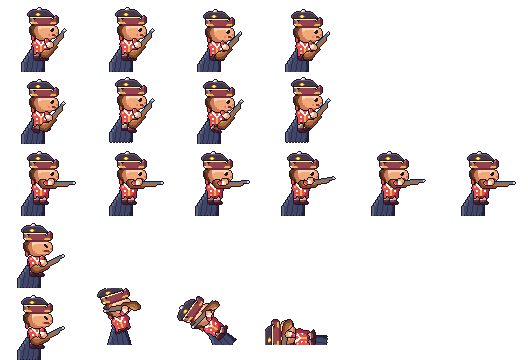
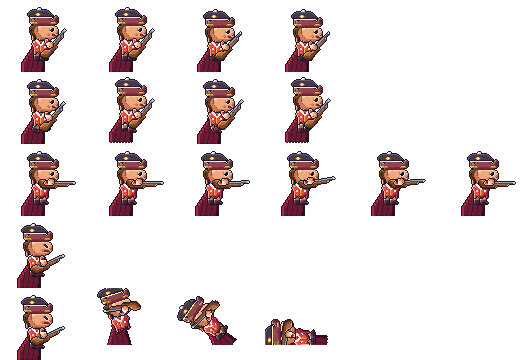
Opaque boss telegraph and ward, re-detailed bosses, enemy-red Gunpowder cape
- Boss strike marker: dotted ring painted on the path with cracks that
  spread as it charges (was a translucent red box).
- Ward: one-pixel dome with a moving glint over the visible fortress front.
- Boss parts get a one-pixel re-detail pass after upscaling (rim light,
  shade, material seams) so they stop reading as a zoomed-in troop.
- Gunpowder boss cape recoloured from navy to enemy red.
- Bible D40.

Claude-Session: https://claude.ai/code/session_019bgXjgLKeDnHZqqyGSXWVb

diff --git a/src/view/battleView.ts b/src/view/battleView.ts
@@ -643,65 +643,78 @@ export class BattleView {
     d.strip(torch, Math.floor(this.t * this.app.assets.strip(torch).fps + side), flip ? x - tx : x + tx, y + ty, { flip });
   }
 
-  /** Red ground marker under a telegraphed boss strike, filling as it charges. */
+  /**
+   * Ground marker under a telegraphed boss strike: an opaque dotted ring painted on the path (the
+   * whole band inside it gets hit), with cracks that spread as the strike charges. No translucent box.
+   */
   private drawMarks(sx: number, sy: number): void {
     const d = this.app.draw;
     const G = this.layout.groundY;
     for (const m of this.marks) {
-      const cx = this.laneToPx(m.x);
-      const half = Math.max(6, Math.round(this.laneToPx(m.x + m.r) - cx));
+      const cx = Math.round(this.laneToPx(m.x) + sx);
+      const rx = Math.max(6, Math.round(this.laneToPx(m.x + m.r) - this.laneToPx(m.x)));
+      const ry = this.layout.bandHalf + 2;
+      const cy = G + sy;
       const p = Math.min(1, m.t / Math.max(0.05, m.dur));
-      const blink = Math.floor(m.t * 12) % 2 ? 0.55 : 0.85;
-      // A box across the whole width of the path: everyone inside it will be hit.
-      const top = G - this.layout.bandHalf - 2 + sy;
-      const bot = G + this.layout.bandHalf + 3 + sy;
-      d.rect(Math.round(cx - half + sx), top, half * 2, bot - top, '#ff5a4f', 0.08 + 0.16 * p);
-      d.rect(Math.round(cx - half + sx), bot, half * 2, 1, '#ff5a4f', blink);
-      d.rect(Math.round(cx - half * p + sx), bot + 1, Math.round(half * 2 * p), 2, '#ff5a4f', 0.35 + 0.4 * p);
-      d.rect(Math.round(cx - half + sx), top, 1, bot - top, '#ff9a7a', blink);
-      d.rect(Math.round(cx + half - 1 + sx), top, 1, bot - top, '#ff9a7a', blink);
+      const hot = Math.floor(m.t * 12) % 2 === 0;
+      const rim = hot ? '#ff5a4f' : '#ffb08c';
+      // Dotted ring; the dots fill in as the charge builds.
+      const n = Math.round((rx + ry) * 1.6);
+      for (let i = 0; i < n; i++) {
+        const f = i / n;
+        if (i % 2 && f > p) continue;
+        const th = f * Math.PI * 2;
+        d.rect(Math.round(cx + Math.cos(th) * rx), Math.round(cy + Math.sin(th) * ry), 1, 1, f <= p ? rim : '#7a2a30');
+      }
+      // Cracks running out from the impact point.
+      for (let k = 0; k < 6; k++) {
+        const th = (k / 6) * Math.PI * 2 + 0.4;
+        const len = Math.round(p * 0.85 * Math.hypot(Math.cos(th) * rx, Math.sin(th) * ry));
+        for (let j = 0; j < len; j += 1) {
+          const t = j / Math.max(1, Math.hypot(Math.cos(th) * rx, Math.sin(th) * ry));
+          const jag = (j >> 2) % 2 ? 1 : 0;
+          d.rect(Math.round(cx + Math.cos(th) * rx * t) + jag, Math.round(cy + Math.sin(th) * ry * t), 1, 1, '#3a1a22');
+        }
+      }
+      d.rect(cx - 1, cy - 1, 3, 3, '#3a1a22');
+      if (hot) d.rect(cx, cy, 1, 1, '#ff5a4f');
       if (m.move === 'barrage') {
         // A falling shell over the mark.
         const y = G - 70 + 70 * p * p;
-        d.rect(Math.round(cx - 1 + sx), Math.round(y + sy), 3, 3, '#2a1f2e');
-        d.rect(Math.round(cx + sx), Math.round(y + sy), 1, 1, '#ffd03c');
+        d.rect(cx - 1, Math.round(y + sy), 3, 3, '#2a1f2e');
+        d.rect(cx, Math.round(y + sy), 1, 1, '#ffd03c');
       }
     }
   }
 
-  /** A shimmering dome over the enemy fortress while its boss lives. */
+  /**
+   * A shimmering dome over the visible front of the enemy fortress while its boss lives: a one-pixel
+   * rim with a moving glint and sparse hex dashes inside, all opaque pixels on the art grid.
+   */
   private drawWard(sx: number, sy: number): void {
     const d = this.app.draw;
     const G = this.layout.groundY;
     const e = this.app.assets.image(`base.${this.baseAge(1)}.blue.0`);
-    const rh = (e.anchor?.[1] ?? 70) + 10;
-    const rw = Math.round(rh * 0.62);
-    const cx = this.layout.laneR + Math.round(rw * 0.55);
+    const rh = (e.anchor?.[1] ?? 70) + 8;
+    const rw = Math.round(rh * 0.5);
+    const cx = this.layout.laneR + Math.round(rw * 0.35);
     const broke = this.wardBroken > 0 && !this.sim.wardUp;
-    const pulse = 0.5 + 0.5 * Math.sin(this.t * 3);
-    const alpha = broke ? this.wardBroken / 1.2 : 0.75 + 0.2 * pulse;
     const col = this.wardFlash > 0 ? '#ffffff' : '#7fd0ff';
-    // Hex-cell fill: rows of short dashes inside the dome, drifting slowly upward.
     const drift = Math.floor(this.t * 6) % 6;
     for (let y = G - rh + 3; y < G; y++) {
+      if ((y + drift) % 6 !== 0) continue;
+      if (broke && Math.floor(this.wardBroken * 20) % 2) continue;
       const k = Math.sqrt(Math.max(0, 1 - Math.pow((G - y) / rh, 2)));
       const half = Math.round(rw * k);
-      if (half < 2) continue;
-      if ((y + drift) % 6 === 0) {
-        for (let x = -half + ((y >> 1) % 2) * 3; x < half - 1; x += 6) d.rect(cx + x + sx, y + sy, 3, 1, '#bfe8ff', 0.22 * alpha);
-      }
-      // Faint inner glow near the rim.
-      d.rect(cx - half + sx, y + sy, 2, 1, '#9fdcff', 0.35 * alpha);
-      d.rect(cx + half - 2 + sx, y + sy, 2, 1, '#9fdcff', 0.35 * alpha);
+      for (let x = -half + 2 + ((y >> 1) % 2) * 3; x < half - 3; x += 7) d.rect(cx + x + sx, y + sy, 2, 1, '#bfe8ff');
     }
-    // Two-pixel rim.
-    for (let a = 0; a <= 96; a++) {
-      if (broke && a % 4 < 2) continue;
-      const th = Math.PI * (a / 96);
+    for (let a = 0; a <= 120; a++) {
+      if (broke && (a % 5 < 2 || Math.floor(this.wardBroken * 20) % 2)) continue;
+      const th = Math.PI * (a / 120);
       const x = Math.round(cx - Math.cos(th) * rw + sx);
       const y = Math.round(G - Math.sin(th) * rh + sy);
-      d.rect(x, y, 2, 2, col, Math.min(1, alpha + this.wardFlash * 3));
-      if ((a + Math.floor(this.t * 14)) % 16 === 0) d.rect(x, y, 2, 2, '#ffffff', Math.min(1, alpha));
+      const glint = (a + Math.floor(this.t * 30)) % 40 < 3;
+      d.rect(x, y, 1, 1, glint ? '#ffffff' : col);
     }
   }
 

diff --git a/tools/art/troops/bosses.ts b/tools/art/troops/bosses.ts
@@ -4,7 +4,8 @@
  * and the frames stay real rig frames), then gets its own regalia: crowns, horns, capes, hats
  * and darker metal so it reads as a boss at a glance.
  */
-import { Img, scale2x, type Color, type Palette } from '../img';
+import { Img, bayer, mix, scale2x, type Color, type Palette } from '../img';
+import * as PAL from '../palette';
 import { BONE, BRONZE, FELT, FUR, GOLD, IRON, MAIL, STEEL, SUIT, ALLOY, TEAM_RED, WOOD, INK, PLASMA, type Ramp } from '../palette';
 import type { Limb, RigParts } from '../rig';
 import { humanoidAnims } from './anims';
@@ -19,10 +20,51 @@ import type { TroopArt } from './catalog';
 
 const X2 = (v: [number, number]): [number, number] => [v[0] * 2, v[1] * 2];
 
+/** Every ramp in the master palette, so a colour can step one shade lighter or darker. */
+const STEPS = (() => {
+  const m = new Map<Color, { up: Color; down: Color }>();
+  for (const v of Object.values(PAL)) {
+    if (!v || typeof v !== 'object' || !('base' in v)) continue;
+    const r = v as { hl: Color; base: Color; shade: Color; deep: Color };
+    const seq = [r.hl, r.base, r.shade, r.deep];
+    seq.forEach((c, i) => {
+      if (!m.has(c)) m.set(c, { up: seq[Math.max(0, i - 1)], down: seq[Math.min(3, i + 1)] });
+    });
+  }
+  return m;
+})();
+const lighter = (c: Color) => STEPS.get(c)?.up ?? mix(c, 0xfff8ecff, 0.25);
+const darker = (c: Color) => STEPS.get(c)?.down ?? mix(c, 0x1e1526ff, 0.3);
+
+/**
+ * Re-detail an upscaled part at the native pixel size (D39 "one pixel"): a one-pixel rim light on
+ * top-left edges, one-pixel shade on bottom-right edges, single-pixel texture in flat areas and
+ * single-pixel seams between colours, so the doubled pixels no longer read as a zoomed-in troop.
+ */
+function redetail(src: Img): Img {
+  const out = src.clone();
+  const at = (x: number, y: number) => (x < 0 || y < 0 || x >= src.w || y >= src.h ? 0 : src.get(x, y));
+  for (let y = 0; y < src.h; y++) {
+    for (let x = 0; x < src.w; x++) {
+      const c = src.get(x, y);
+      if (!c || c === INK) continue;
+      const l = at(x - 1, y), u = at(x, y - 1), r = at(x + 1, y), d = at(x, y + 1);
+      const edge = (v: Color) => !v || v === INK;
+      if (edge(u) || edge(l)) out.set(x, y, lighter(c));
+      else if (edge(d) || edge(r)) out.set(x, y, darker(c));
+      else if ((r && r !== c && r !== INK) || (d && d !== c && d !== INK)) {
+        // A seam between two materials: darken this side by one step, one pixel wide.
+        if (at(x + 1, y + 1) !== c) out.set(x, y, darker(c));
+      } else if (bayer(x, y) < 0.035 && (x + y) % 3 === 0) out.set(x, y, darker(c));
+    }
+  }
+  return out;
+}
+
 function bigLimb(l: Limb, recolor?: (c: Color) => Color): Limb {
   const img = scale2x(l.img);
   if (recolor) img.map((c) => (c ? recolor(c) : c));
-  return { img, pivot: X2(l.pivot), ...(l.tip ? { tip: X2(l.tip) } : {}) };
+  return { img: redetail(img), pivot: X2(l.pivot), ...(l.tip ? { tip: X2(l.tip) } : {}) };
 }
 
 /** Map every colour of one ramp onto another (e.g. bright mail to blackened iron). */
@@ -184,7 +226,8 @@ export function admiralRig(team: Ramp): RigParts {
     '.ffffffffffffffffffffffff.',
     '..YYYYYYYYYYYYYYYYYYYYYY..',
   ], { ...P(['FGff', FELT], ['YZzz', GOLD]), W: STEEL.hl, w: STEEL.base }, [-2, -6]);
-  cape(r, CAPE_ROWS(24, 34), P(['ABCD', SUIT]), [21, 0]);
+  // Enemy-red greatcoat cape (navy read as the player's colour).
+  cape(r, CAPE_ROWS(24, 34), P(['ABCD', { hl: TEAM_RED.shade, base: TEAM_RED.deep, shade: 0x4a1226ff, deep: 0x2e0c1aff }]), [21, 0]);
   return r;
 }
 
@@ -193,7 +236,7 @@ function bigBiped(r: BipedRig, recolor?: (c: Color) => Color): BipedRig {
   const S = (img: Img) => {
     const o = scale2x(img);
     if (recolor) o.map((c) => (c ? recolor(c) : c));
-    return o;
+    return redetail(o);
   };
   const sw = (ramp: BipedRig['legRamp']) => (recolor ? { hl: recolor(ramp.hl), base: recolor(ramp.base), shade: recolor(ramp.shade), deep: recolor(ramp.deep) } : ramp);
   return {

diff --git a/docs/BIBLE.md b/docs/BIBLE.md
@@ -279,3 +279,4 @@ Folders:
 | D38 | 2026-11-05 | "Look to We Are Warriors for game feel, waves, and progression." Answered the six-critic review the WAW way (guides: every enemy you down drops coins, losses are expected, coins buy meat rate and base health, evolving resets them, replay earlier battles to farm; Andre's screenshots: Wave pill from Wave 1 with an enemy already on the lane, in-battle meat button, Coins Collected, crowds at the gates). (1) Waves: a numbered wave every 20 s from 0.5 s, released as a clump (units 0.4 s apart) built from the stage recipe, 1.22x bigger each wave, with a 2-unit trickle between waves; a persistent WAVE pill with a countdown, naming what each wave brings. (2) Kill coins are the main income: per kill 1, 2, 3, 5, 8, 13 Gold by enemy Age, tanks x5; losses pay. (3) Kitchen: the in-battle Food upgrade in the middle skill circle (cost 2x the cheapest card, x1.6 per level, +20% Food rate per level, 5 levels, from Stone stage 2). (4) Start with Food for one cheapest troop. (5) Feel: no shake or freeze on routine hits; kept for Stormcall, boss death and fortress falls; Stormcall flash drawn; status tints visible; no '+1' kill texts (coins fly to the counter); fewer ready pings; empty sockets dim instead of padlocks. (6) Tanks -25% HP, armor 0.7 (tank-only was the best plan in every Age). (7) Pacing: first Evolution free (WAW), then 4,000 / 16,000 / 36,000 / 65,000; Stone tuned with the troops a new player has (curve 0,1,3,5,7 levels). Smart bot: Stone 7 min, Ancient 45, then 96-108 min per Age, first Prestige about 6 h (careless bot 7 h). Not adopted (not confirmed in WAW): gate defence, per-card cooldowns. | PROVISIONAL | Andre (direction) |
 | D24 | 2026-10-30 | HUD walls: Crusader stone with heraldic pennants, Gunpowder timber and iron, Industrial red brick and steel girder, Future alloy panels (owner brief for this pass; replaces the Open Decision 3 proposal). | PROVISIONAL | Andre (brief) |
 | D39 | 2026-11-05 | Visual direction decided from Andre's own words ("make decisions in light of my vision"; four-agent visual review). (1) One pixel look: one grid, no upscaled or translucent art; bosses to be redrawn natively (next). (2) Troops stay chunky chibi with serious, brave faces and real kit, never toy-like or muscle-hero; size unchanged (46 to 58 CSS px, a little bigger than WAW). (3) HUD: We Are Warriors footprint (thin top band, wave plaque, floating sockets, slim bottom wall, big cards) drawn entirely in the battle Age's wall material; empty Hero and Skill places are solid carved niches, not ghosts. (4) GPT version: its flow (now > next upgrade rows, results that route you, gradual tabs) in our pixel materials, never its look. (5) Team identity on troops: dyed hides, tunics, helmets, suits and gun carriages, at least about 15% of pixels; fortresses keep one small flag; no heraldry on HUD walls. (6) Home keeps the STORMGLASS logo (the old hub Andre loved) with Battle N and the next enemy on the plaque; the call to action stands on the Age wall, and Evolve or a new Timeline becomes the one hero button when ready. (7) A brand-new player starts straight in Battle 1 (seamless start). (8) Restored the far and mid scenery the wider road had hidden. (9) Settings skins (ice, volcanic, underwater, air) are for events and dungeons on top of the six Ages. (10) Dungeons tab stays hidden until a mode is playable (D18). Bigger numbers (big font for Gold, prices, Food); only two pixel font sizes. | PROVISIONAL | Claude (Andre's vision) |
+| D40 | 2026-11-05 | Visual pass 2 (continues D39). Walk: legs swing from the hip and the trailing leg bends on the passing frame (no sliding legs). Deaths lean each part on its own (crisp outlines; no rotation of finished frames). Stormcall: full-height forked bolt, ground flash, scorch mark, socket flare. Per-Age foreground props (trees, rocks, Age objects) under the road. Boss telegraphs are a dotted ring with spreading cracks and the ward a one-pixel dome over the fortress front, both opaque. Bosses: upscaled parts are re-detailed at the native pixel (one-pixel rim light, shade and seams); the Gunpowder boss's cape is enemy red. Still to do: bosses hand-drawn natively with their own silhouettes; road repaint. | PROVISIONAL | Claude (Andre's vision) |

diff --git a/docs/art-specs/troop.md b/docs/art-specs/troop.md
@@ -602,7 +602,7 @@ boss_stone: boss at twice the troop scale, enemy team. Faces right; mirrored in 
   - row 3 `hit`: 1 frames @ 8 fps
   - row 4 `death`: 4 frames @ 10 fps
 - Outline: 1 px #1e1526 where the art has an outline
-- Colors (31): #1e1526 #fbf4e0 #b3a486 #7d705c #e2d6b6 #4a2618 #6e3e24 #cc7a58 #ffd6ac #f2a97a #e64d4d #7c2e30 #6f322a #ab513f #dd7e58 #f9c591 #ae2a40 #ffb08c #52291b #7f4428 #94503f #f4d494 #d6a160 #ad6a3c ...
+- Colors (43): #1e1526 #fbf4e0 #b3a486 #e2d6b6 #7d705c #6e3e24 #4a2618 #2e1610 #cc7a58 #94503f #ffd6ac #f2a97a #e64d4d #ae2a40 #7c2e30 #60272d #93645b #c07b6a #dd7e58 #f9c591 #ab513f #813f38 #b79071 #a45f49 ...
 
 ## troop.boss_ancient.red
 
@@ -618,7 +618,7 @@ boss_ancient: boss at twice the troop scale, enemy team. Faces right; mirrored i
   - row 3 `hit`: 1 frames @ 8 fps
   - row 4 `death`: 4 frames @ 10 fps
 - Outline: 1 px #1e1526 where the art has an outline
-- Colors (23): #1e1526 #fbf4e0 #e2d6b6 #b3a486 #ae2a40 #e64d4d #ffb08c #fff2a6 #e6b84a #b07a2c #6a3f1c #cc7a58 #ffd6ac #f2a97a #fff8ec #f07a7a #7c2e30 #f2f6fa #b8c2cc #7e8a96 #9a5c34 #6a1a33 #c98a52
+- Colors (29): #1e1526 #fbf4e0 #e2d6b6 #b3a486 #e64d4d #ffb08c #fff2a6 #e6b84a #6a1a33 #ae2a40 #b07a2c #6a3f1c #94503f #ffd6ac #f2a97a #cc7a58 #fff8ec #bcb4b1 #f07a7a #b15c61 #7c2e30 #60272d #f2f6fa #b8c2cc ...
 
 ## troop.boss_crusader.red
 
@@ -634,7 +634,7 @@ boss_crusader: boss at twice the troop scale, enemy team. Faces right; mirrored 
   - row 3 `hit`: 1 frames @ 8 fps
   - row 4 `death`: 4 frames @ 10 fps
 - Outline: 1 px #1e1526 where the art has an outline
-- Colors (22): #1e1526 #fff3a8 #ffd03c #e64d4d #a35f16 #ae2a40 #ffb08c #9aa2ae #4a505e #6a7280 #30343f #e6b84a #fff2a6 #fffaf0 #b07a2c #9a5c34 #6e3a22 #6a5a6e #312838 #45384c #221c28 #c98a52
+- Colors (26): #1e1526 #fff3a8 #ffd03c #e64d4d #a35f16 #6a1a33 #ae2a40 #ffb08c #9aa2ae #6a7280 #4a505e #30343f #fff2a6 #e6b84a #b07a2c #fffaf0 #ece2cc #6a3f1c #9a5c34 #6e3a22 #472214 #6a5a6e #312838 #45384c ...
 
 ## troop.boss_gunpowder.red
 
@@ -650,7 +650,7 @@ boss_gunpowder: boss at twice the troop scale, enemy team. Faces right; mirrored
   - row 3 `hit`: 1 frames @ 8 fps
   - row 4 `death`: 4 frames @ 10 fps
 - Outline: 1 px #1e1526 where the art has an outline
-- Colors (42): #1e1526 #f2f6fa #b8c2cc #6a5a6e #45384c #a35f16 #ffd03c #fff3a8 #221c28 #b5857d #70293c #96434d #fff2a6 #e6b84a #6a3f1c #6e3e24 #cc7a58 #ffd6ac #f2a97a #4a2618 #ece2cc #d6dce2 #6e7884 #f07a7a ...
+- Colors (54): #1e1526 #f2f6fa #b8c2cc #6a5a6e #45384c #a35f16 #ffd03c #fff3a8 #221c28 #c8a299 #945d68 #886363 #70293c #b07075 #b5857d #96434d #723541 #572335 #fff2a6 #e6b84a #b07a2c #6a3f1c #9a6238 #6e3e24 ...
 
 ## troop.boss_industrial.red
 
@@ -666,7 +666,7 @@ boss_industrial: boss at twice the troop scale, enemy team. Faces right; mirrore
   - row 3 `hit`: 1 frames @ 8 fps
   - row 4 `death`: 4 frames @ 10 fps
 - Outline: 1 px #1e1526 where the art has an outline
-- Colors (30): #1e1526 #462a3a #c0a7a1 #99646d #704253 #a8b294 #7c866a #5a624e #fff3a8 #fff8ec #f2a97a #cc7a58 #e64d4d #ae2a40 #e09a1e #ffb08c #a35f16 #9aa2ae #30343f #4a505e #6a7280 #52291b #8f7b7c #744c58 ...
+- Colors (47): #1e1526 #745e67 #3a2434 #462a3a #d0bbb4 #99646d #744c58 #704253 #8f7b7c #573546 #b3898d #a8b294 #7c866a #5a624e #3c4236 #fff3a8 #ffd03c #fff8ec #bcb4b1 #cc7a58 #f2a97a #94503f #c0a7a1 #e64d4d ...
 
 ## troop.boss_future.red
 
@@ -682,4 +682,4 @@ boss_future: boss at twice the troop scale, enemy team. Faces right; mirrored in
   - row 3 `hit`: 1 frames @ 8 fps
   - row 4 `death`: 4 frames @ 10 fps
 - Outline: 1 px #1e1526 where the art has an outline
-- Colors (26): #1e1526 #404668 #2c304e #e64d4d #5e6688 #ffffff #1e2038 #c4fbff #ffb08c #6d2d47 #934a5b #af8b8a #ae2a40 #52291b #a35f16 #e09a1e #ffd03c #4b4e6b #363754 #282842 #1e1d33 #2a9cf0 #5ce6ff #fff8ec ...
+- Colors (32): #1e1526 #5e6688 #404668 #2c304e #1e2038 #e64d4d #ae2a40 #ffffff #c4fbff #5ce6ff #ffb08c #55263d #703a4b #c3a6a3 #84686c #6a1a33 #ae767f #934a5b #6d2d47 #52291b #a35f16 #e09a1e #ffd03c #4b4e6b ...
